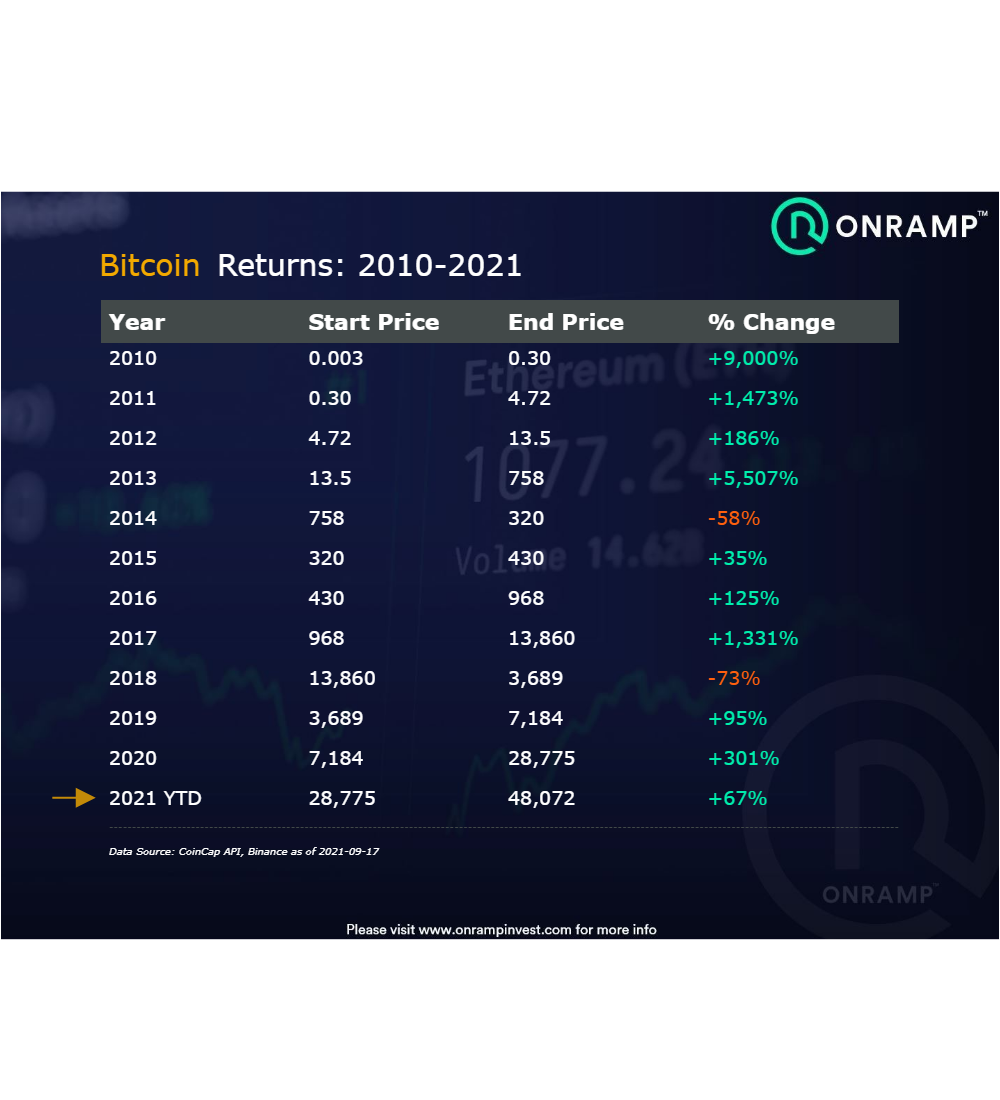
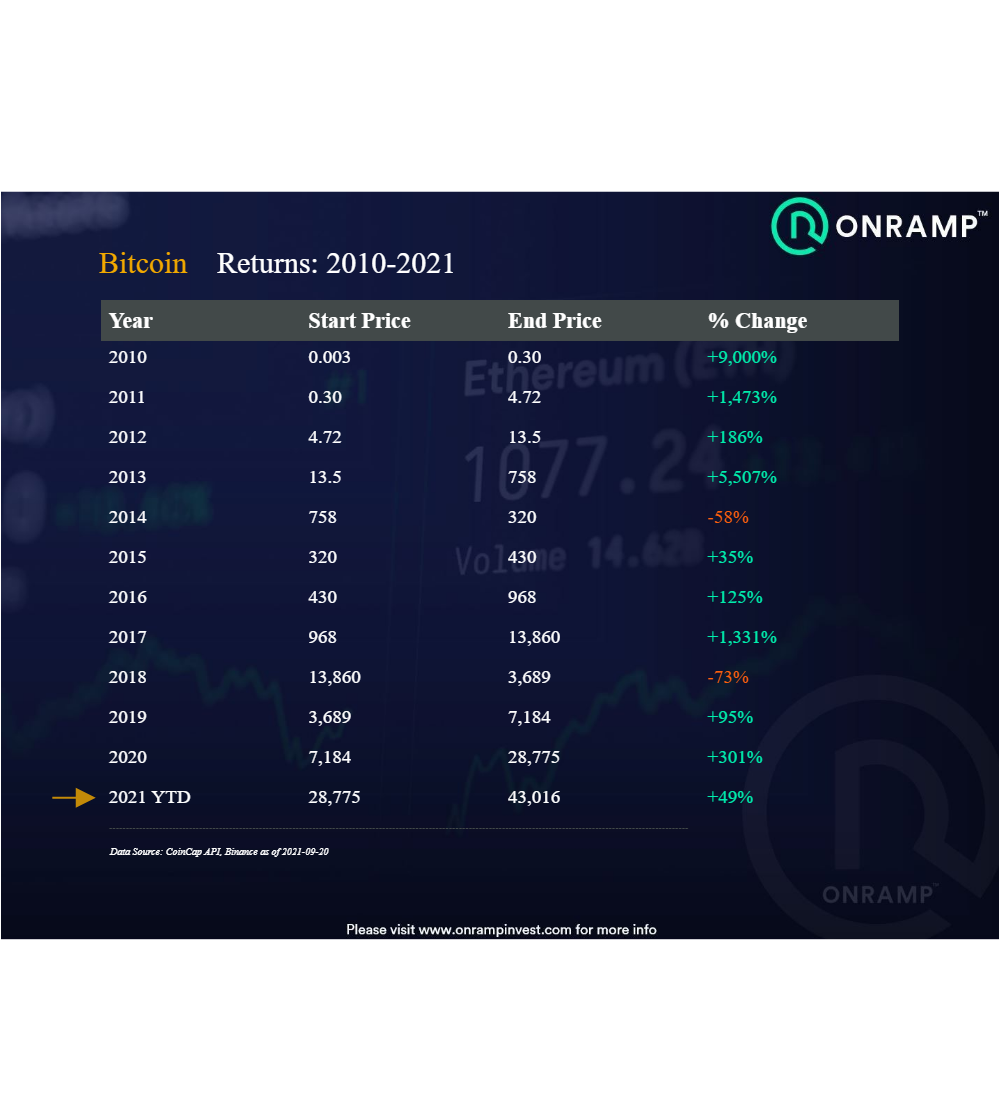
failed attempt at dash app

diff --git a/app.py b/app.py
@@ -7,6 +7,9 @@ import requests
 from datetime import datetime, timedelta
 import plotly.graph_objects as go
 from PIL import Image
+import dash
+from dash import dcc, html
+from dash.dependencies import Input, Output
 import slack
 
 slack_token = "xoxb-2494974236230-2494977536086-Ag9YR6pDVxASp0U9ol8rkY1S"
@@ -120,7 +123,7 @@ fig.update_layout(
             "paper_bgcolor": "rgba(0, 0, 0, 0)",
         },
         height = 1100,
-        # font = dict(family = 'roboto')
+        font = dict(family = 'roboto')
 )
 fig.add_layout_image(
         dict(
@@ -211,10 +214,39 @@ fig.add_annotation(
 # fig.update_layout(xaxi)
 # fig.show()
 
+# a
+
+
+
 fig.write_image("bitcoin_returns.png", height = 1100, width = 1000)
 
-result = client.files_upload(
-    channels="bitcoin-table",
-    initial_comment="Updated Bitcoin Table :smile:",
-    file="bitcoin_returns.png",
-)
+# result = client.files_upload(
+#     channels="bitcoin-table",
+#     initial_comment="Updated Bitcoin Table :smile:",
+#     file="bitcoin_returns.png",
+# )
+
+
+
+############################################################# Dash App Trial Code #####################################################
+# app = dash.Dash(__name__)
+
+# app.layout = html.Div([
+#     dcc.Graph(figure = fig),
+#     dcc.Input( 
+#         id = "input"
+#     ),
+#     html.Div(id = "output_test")
+# ])
+
+# @app.callback(
+#     Output("output_test", "value"),
+#      [Input('input', 'value')],
+     
+# )
+# def display_graph(render_option):
+#     fig.update_layout(font = {"family": "roboto"})
+#     fig.write_image("bitcoin_returns.png", height = 1100, width = 1000)
+#     return "basic"
+
+# app.run_server(debug=True)
